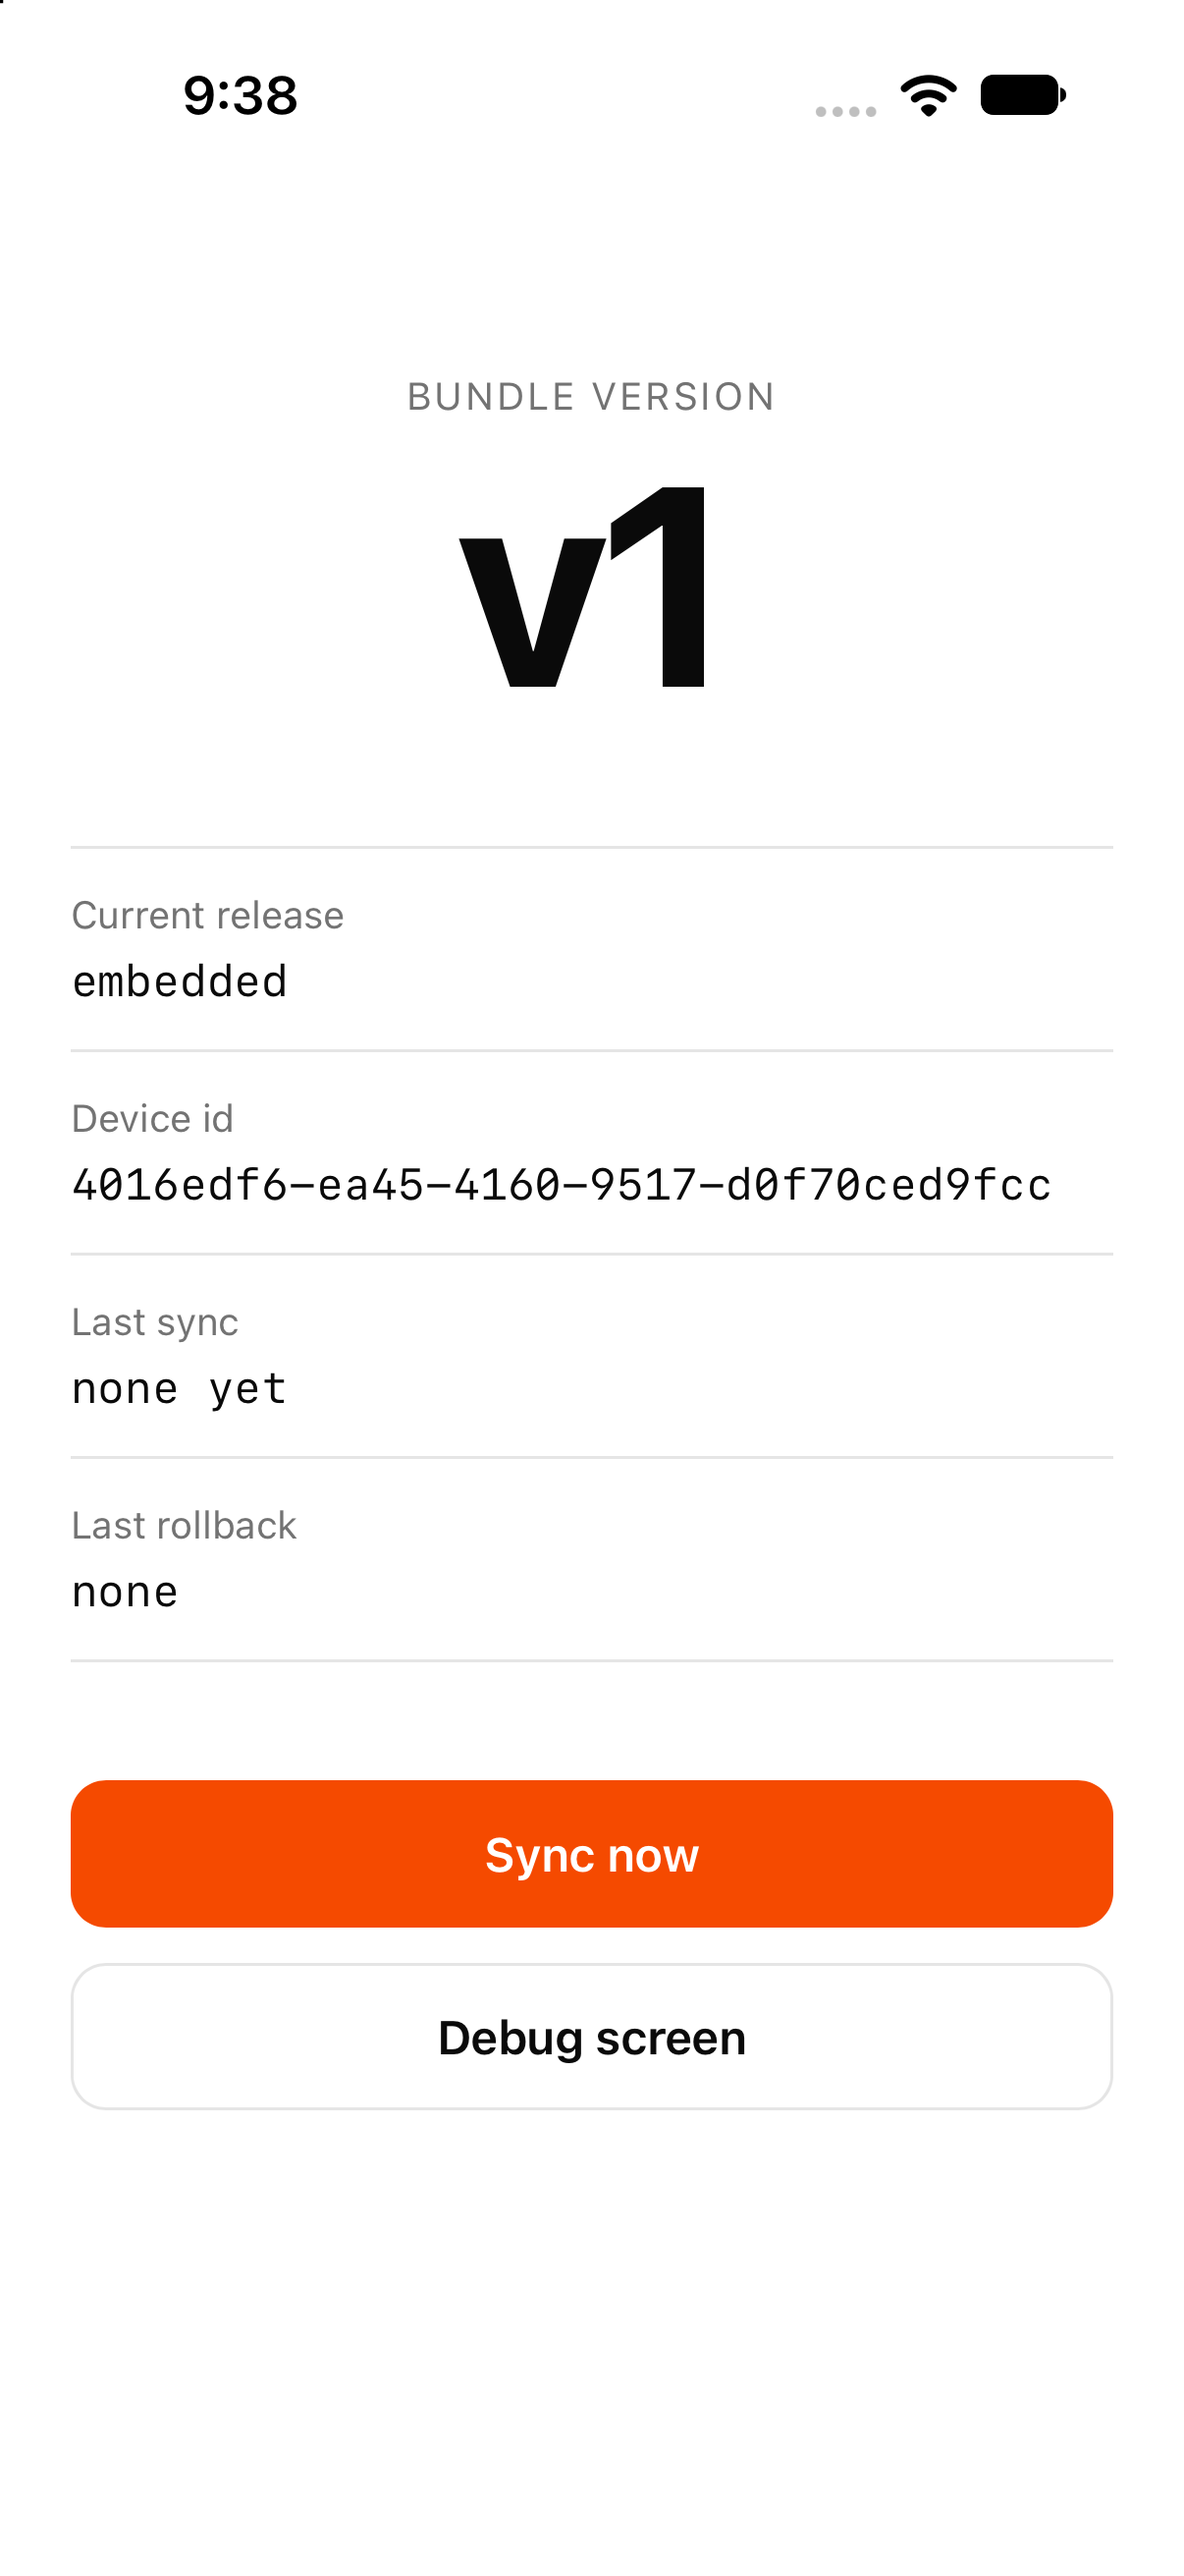
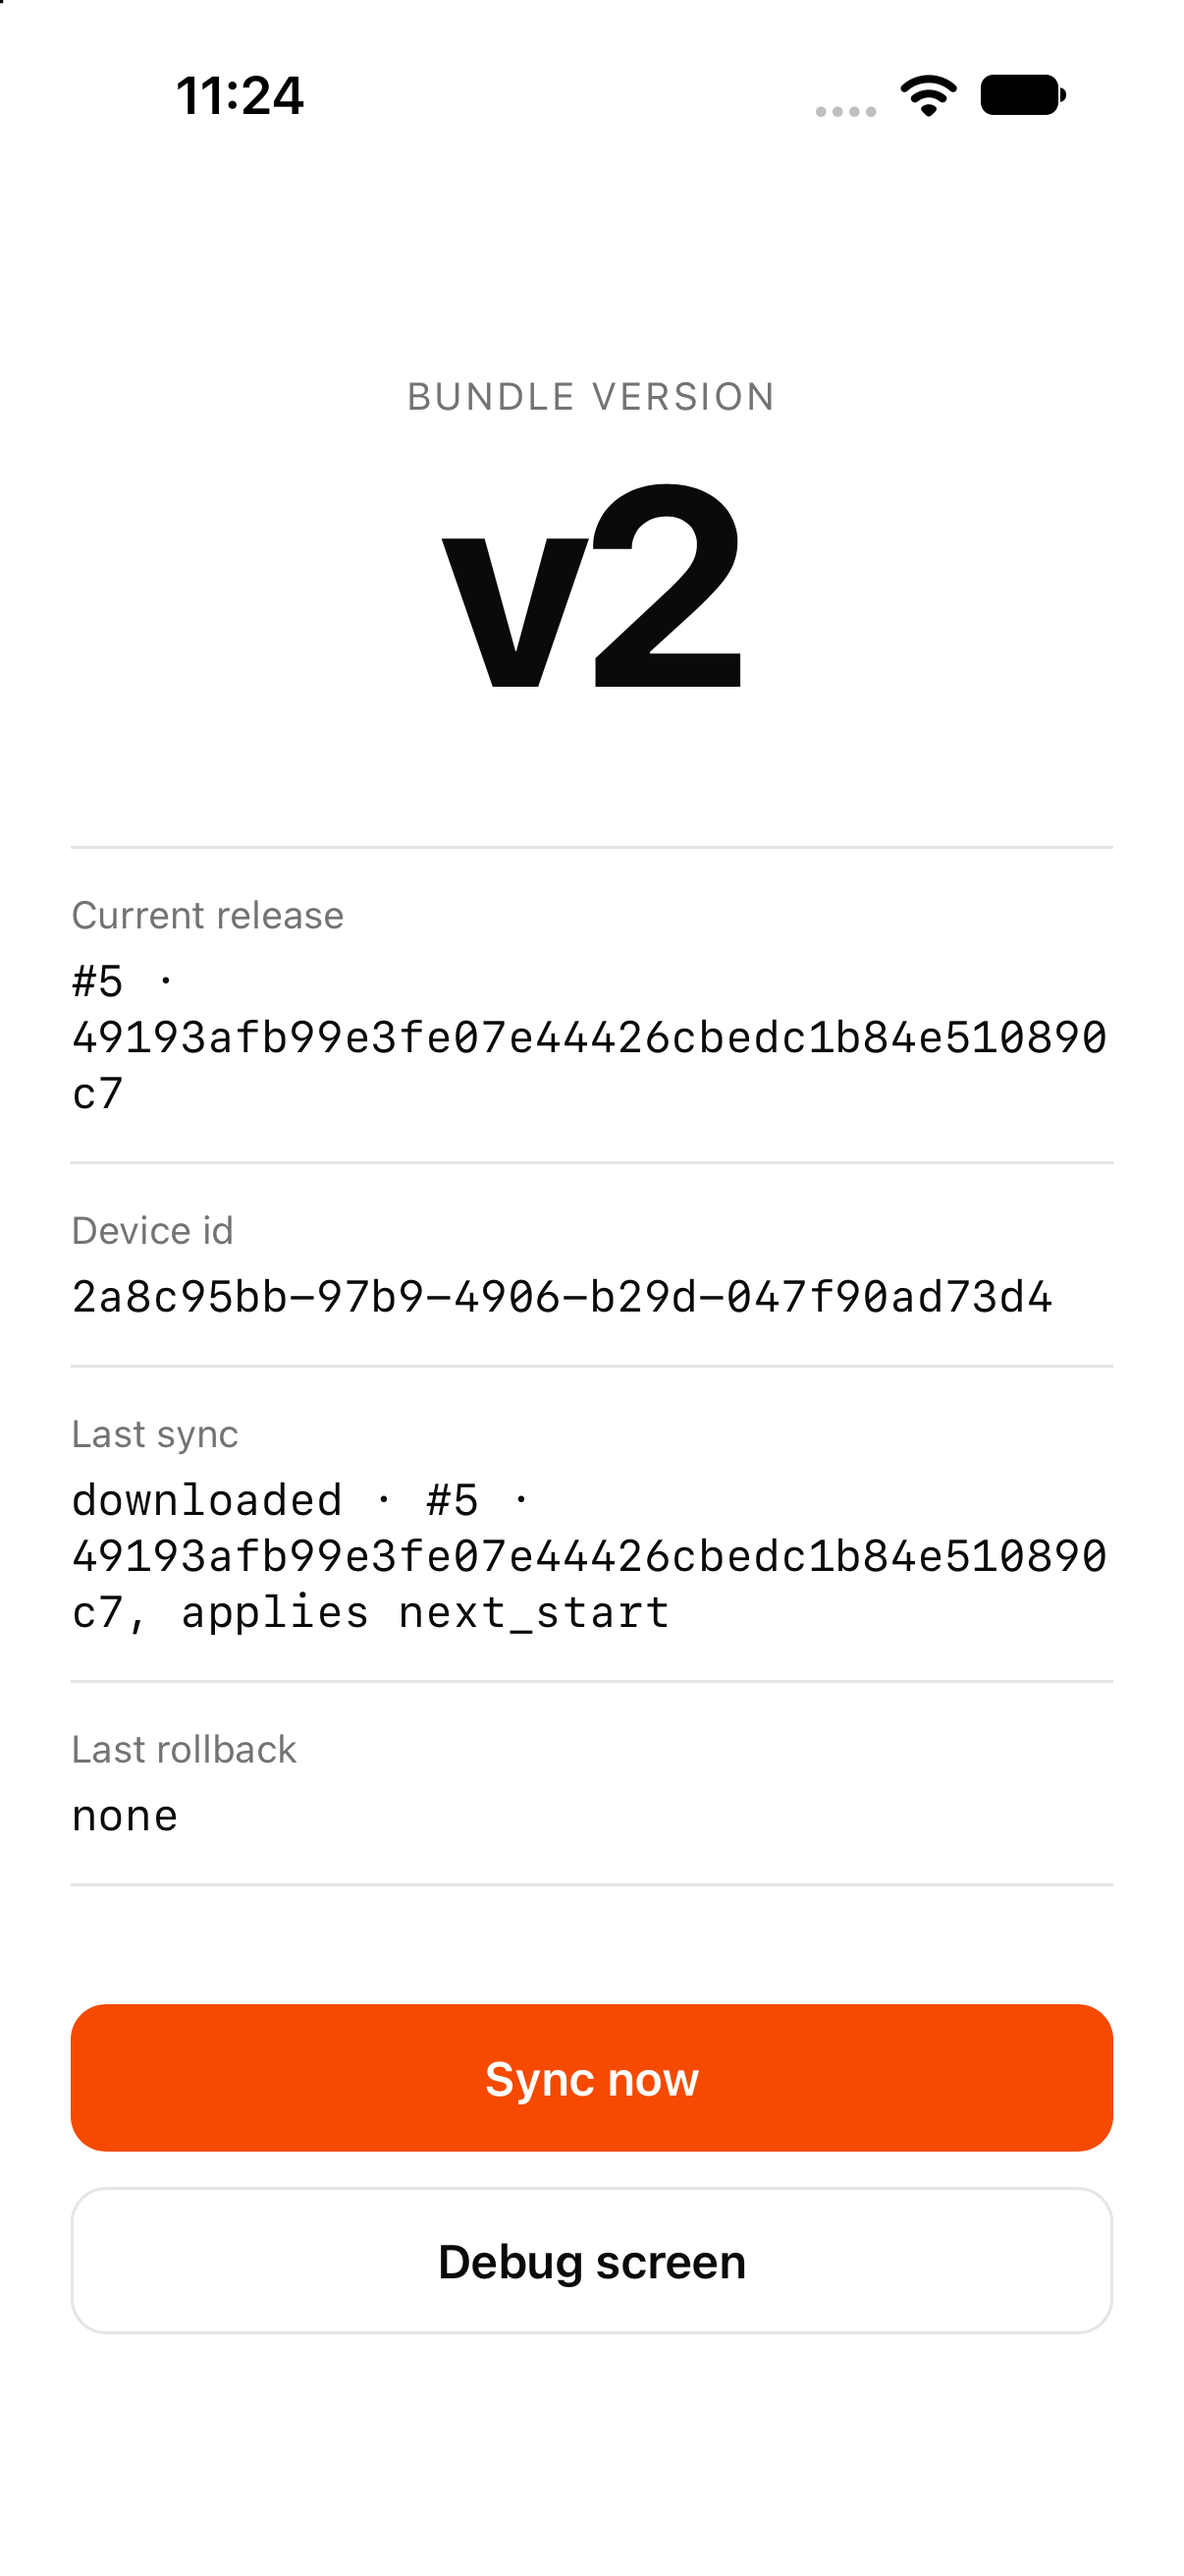
docs: put the download first and name the build-time floor

diff --git a/README.md b/README.md
@@ -3,11 +3,26 @@
 [![CI](https://github.com/hotcodepush-team/capacitor-live-updates-demo/actions/workflows/ci.yml/badge.svg)](https://github.com/hotcodepush-team/capacitor-live-updates-demo/actions/workflows/ci.yml)
 [![Release](https://github.com/hotcodepush-team/capacitor-live-updates-demo/actions/workflows/release.yml/badge.svg)](https://github.com/hotcodepush-team/capacitor-live-updates-demo/actions/workflows/release.yml)
 
-A Capacitor app with [`@hotcodepush/capacitor-live-updates`](https://github.com/hotcodepush-team/capacitor-live-updates) wired in, the way `npx hotcodepush init` wires it. It is pre-configured for a HotCodePush app on production, so a build takes the newest over-the-air (OTA) update as soon as it starts. No account, no setup, build it and watch it update. Every merge to `main` ships a release to that app through the [GitHub Action](https://github.com/hotcodepush-team/release-action), and CI builds both platforms.
+A Capacitor app with [`@hotcodepush/capacitor-live-updates`](https://github.com/hotcodepush-team/capacitor-live-updates) wired in, the way `npx hotcodepush init` wires it. It is pre-configured for a HotCodePush app on production. Install the download, open it and watch the first over-the-air (OTA) update land. No account, no setup. Every merge to `main` ships a release to that app through the [GitHub Action](https://github.com/hotcodepush-team/release-action), and CI builds both platforms.
 
 <p align="center">
   <img src=".github/assets/screenshot.png" alt="The demo on an iPhone simulator, showing the version badge, the current release and the Sync now button" width="320" />
 </p>
+
+## Download
+
+The [downloads release](https://github.com/hotcodepush-team/capacitor-live-updates-demo/releases/tag/downloads) carries the app for Android and for the iOS simulator. Every merge to `main` rebuilds both, with the label `v1`, before it ships the update.
+
+```sh
+# Android, on a device or an emulator
+adb install hotcodepush-demo-capacitor-android.apk
+
+# iOS simulator, booted from Xcode
+unzip hotcodepush-demo-capacitor-ios-simulator.zip
+xcrun simctl install booted App.app
+```
+
+The app starts on `v1` and downloads `v2` on its first sync, the release `main` shipped after the build. Open it again and the badge reads `v2`.
 
 ## What you will see
 
@@ -37,7 +52,7 @@ npx cap sync
 npx cap open ios
 ```
 
-Or `npx cap open android`. Run the app from Xcode or Android Studio. It starts on its embedded bundle, syncs against the `production` channel of the demo's app and shows the newest release.
+Or `npx cap open android`. Run the app from Xcode or Android Studio. It starts on its embedded bundle and syncs against the `production` channel of the demo's app. A build takes only releases created after it was built, so a fresh build answers `skipped · release_older_than_binary` until the next merge to `main` ships a release. That is what the download is for.
 
 ### Ship an update of your own
 
